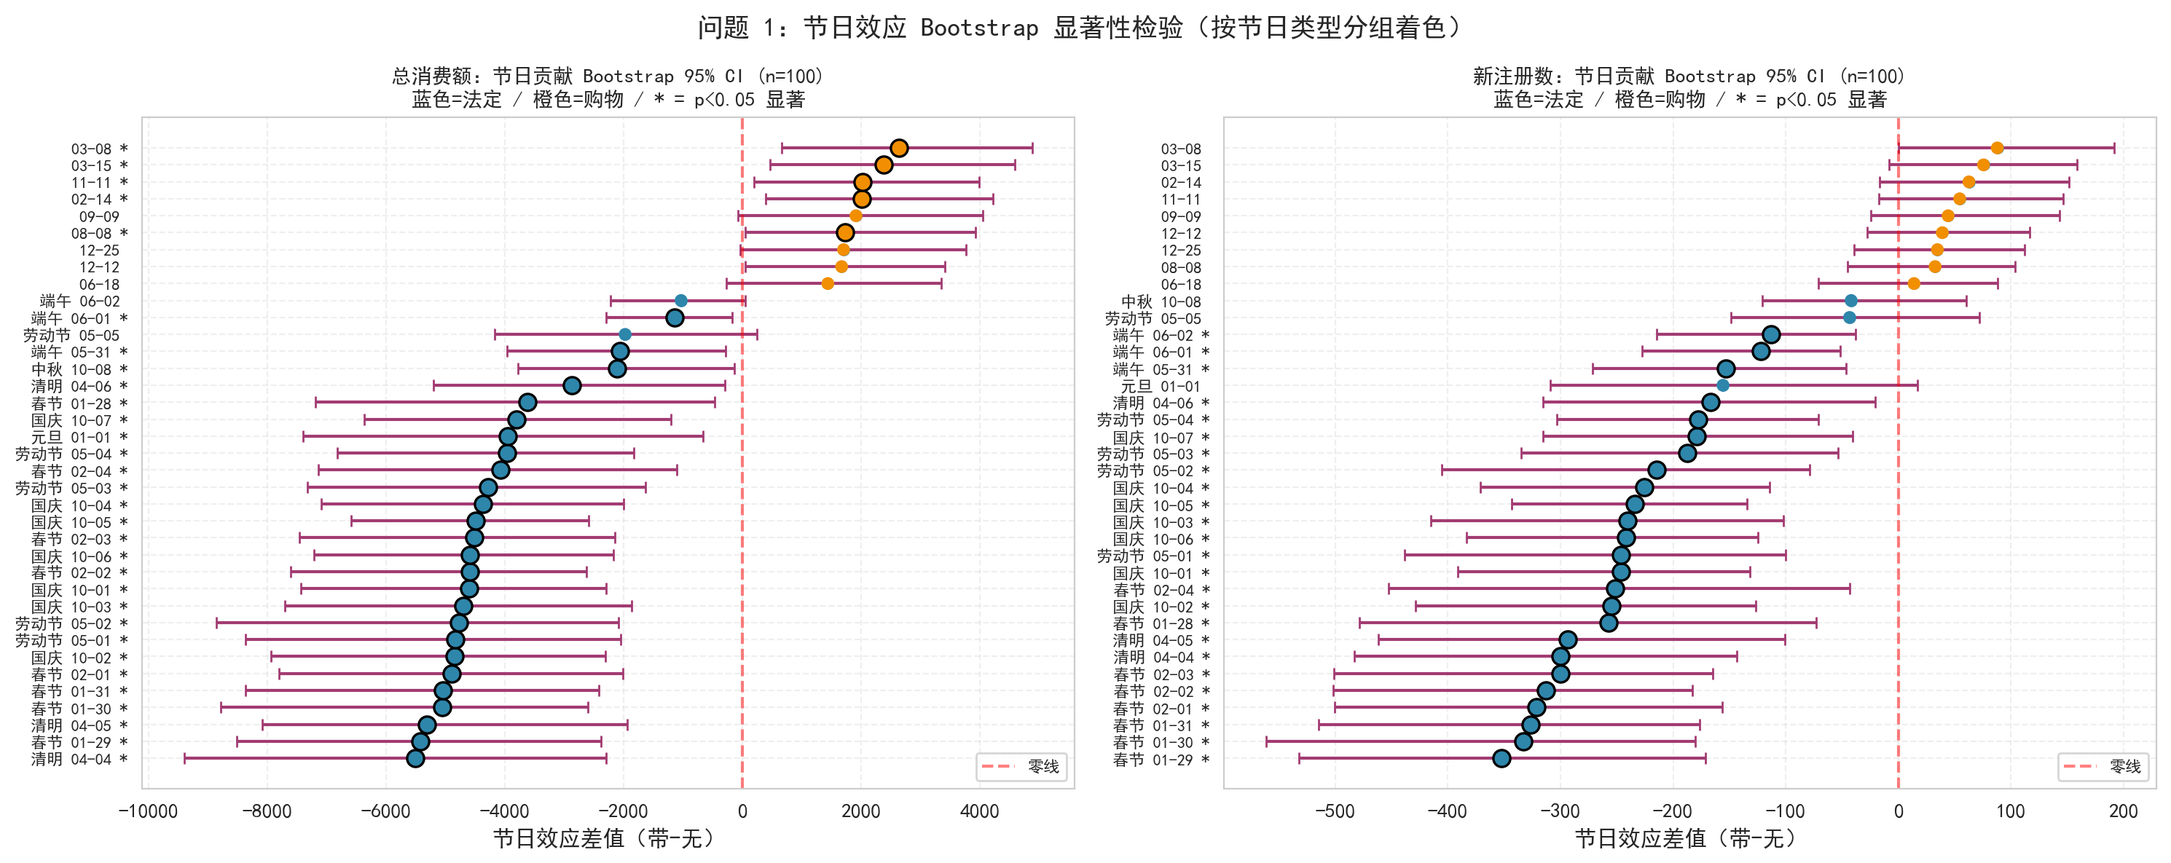
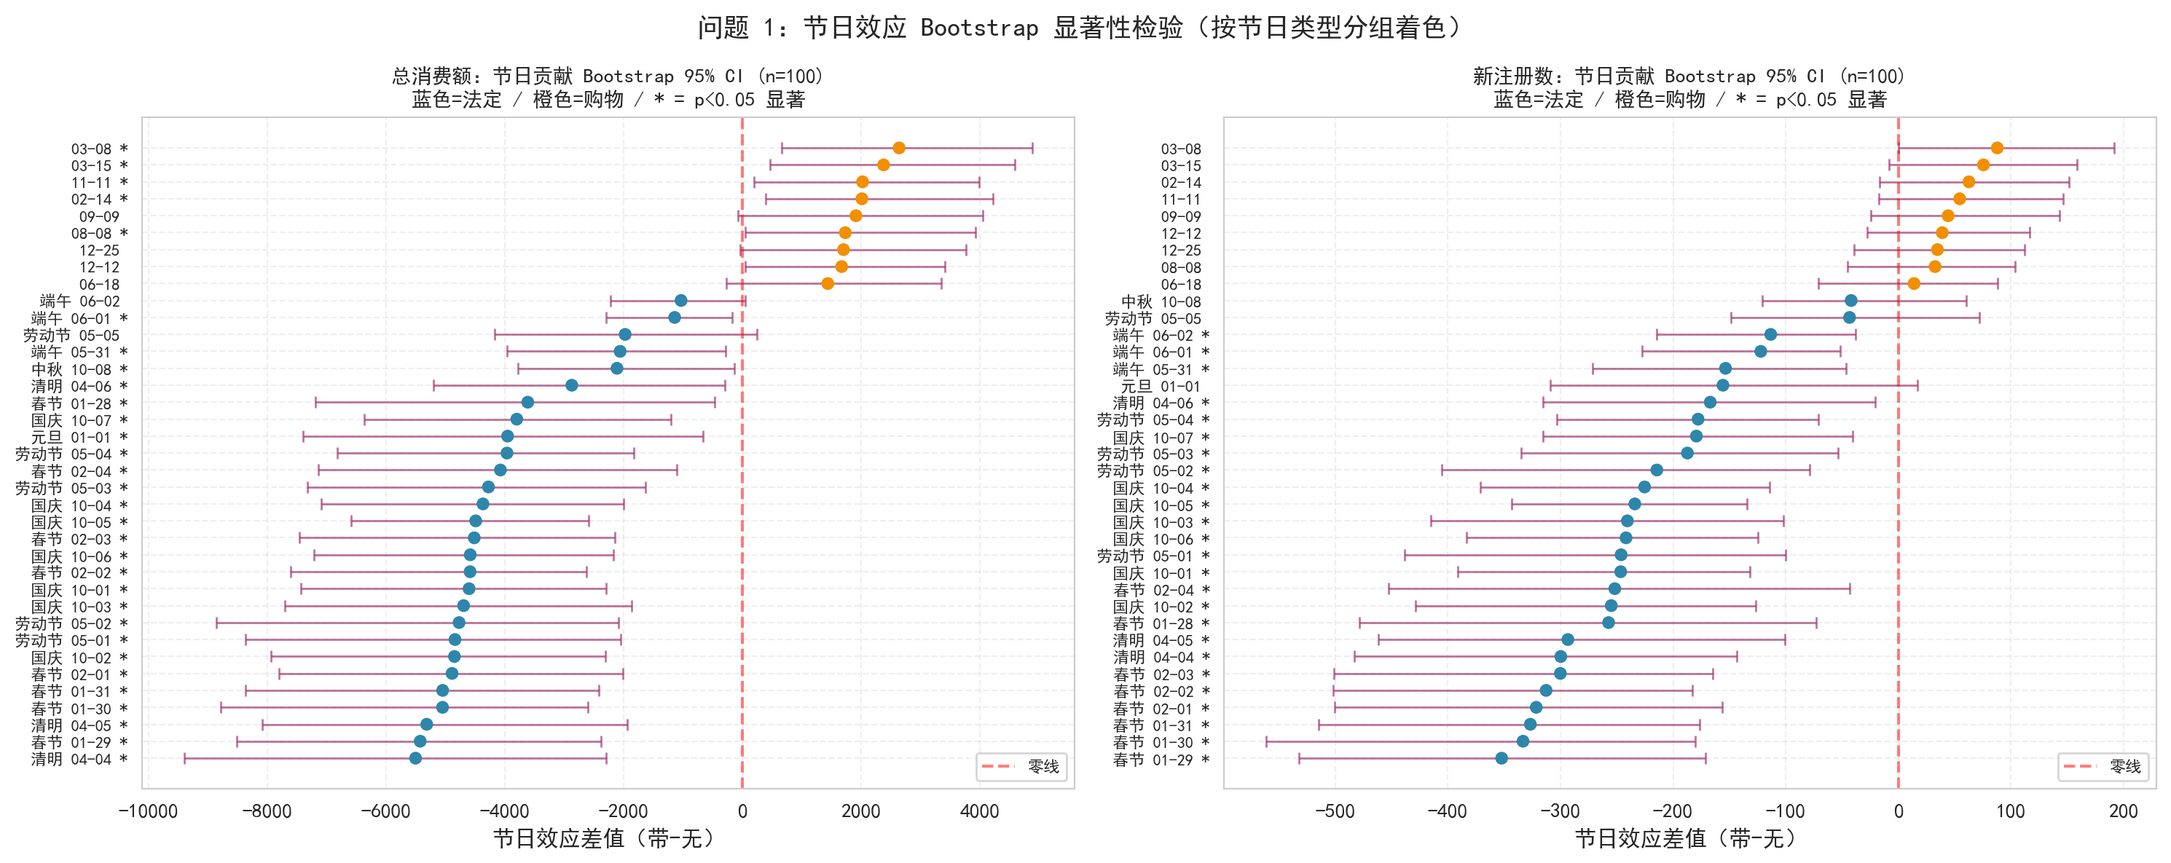
新增图表脚本和泛化验证模块

Changed region(s): [[0.593, 0.1561, 0.9674, 0.9055], [0.0936, 0.3435, 0.3433, 0.9055], [0.3433, 0.1561, 0.4681, 0.3435]]

diff --git a/src/q1_plots.py b/src/q1_plots.py
@@ -29,15 +29,31 @@ def fig_design_quality(data):
     ax = axes[0, 0]
     x = np.arange(len(plan_total))
     w = 0.25
-    ax.bar(x - w, plan_total['展现量'] / 1e6, w, label='展现量(百万)', color=COLORS['primary'])
-    ax.bar(x, plan_total['点击量'] / 1e3, w, label='点击量(千)', color=COLORS['secondary'])
-    ax.bar(x + w, plan_total['消费额'] / 1e4, w, label='消费额(万)', color=COLORS['accent'])
+    # 改-14: 由于 63563817 展现量 ≈ 1.78M，几乎不可读。改用对数刻度避免极端悬殊
+    bars1 = ax.bar(x - w, plan_total['展现量'] / 1e6, w, label='展现量(百万)', color=COLORS['primary'])
+    bars2 = ax.bar(x, plan_total['点击量'] / 1e3, w, label='点击量(千)', color=COLORS['secondary'])
+    bars3 = ax.bar(x + w, plan_total['消费额'] / 1e4, w, label='消费额(万)', color=COLORS['accent'])
+    # 改-14: 在每根 bar 顶端标注精确数值（保留单位），解决"百万级展现量在数值轴几乎为零"
+    for b, v in zip(bars1, plan_total['展现量']):
+        ax.text(b.get_x() + b.get_width()/2, b.get_height() + 0.5, f'{v/1e6:.2f}M',
+                ha='center', va='bottom', fontsize=8, color=COLORS['primary'])
+    for b, v in zip(bars2, plan_total['点击量']):
+        ax.text(b.get_x() + b.get_width()/2, b.get_height() + 0.5, f'{v/1e3:.1f}K',
+                ha='center', va='bottom', fontsize=8, color=COLORS['secondary'])
+    # 改-14-2: 消费额标签固定在 bar 顶上方 3 单位处，x 在 bar 右侧偏外
+    for b, v in zip(bars3, plan_total['消费额']):
+        ax.text(b.get_x() + b.get_width()-0.22, b.get_height() + 0.5,
+                f'{v/1e4:.1f}万',
+                ha='left', va='bottom', fontsize=8, color=COLORS['accent'])
+    ax.set_xlim(-0.5, 4.5)
     ax.set_xticks(x)
     ax.set_xticklabels([str(p) for p in plan_total['方案ID']], rotation=15)
-    ax.set_title('(a) 5个方案核心指标对比')
-    ax.legend()
+    ax.set_title('(a) 5个方案核心指标对比（条顶标注精确数值）')
+    ax.legend(loc='upper right', fontsize=8)
     ax.grid(True, alpha=0.3)
     ax.set_ylabel('数值')
+    # 改-14-2: 设置 xlim 防止最右侧"21.6万"标签被截断（在 bar/text 之后立即设置）
+    ax.set_xlim(-0.5, 4.5)
 
     # (b) 12个单元的上方位占比
     ax = axes[0, 1]
@@ -77,23 +93,38 @@ def fig_design_quality(data):
     cost_min = plan_total['消费额'].min()
     cost_max = plan_total['消费额'].max()
     cost_norm = (plan_total['消费额'] - cost_min) / (cost_max - cost_min)
-    sizes = 60 + 800 * cost_norm  # 范围 60~860，6.4× 差异
+    # 改-14: 圆面积 60→800 太大，"穿模"严重；缩小到 40→260（约 2.4× 差异，仍可读）
+    sizes = 40 + 220 * cost_norm
     ax.scatter(plan_total['CPC'], plan_total['上方位CTR'], s=sizes, alpha=0.6,
                color=COLORS['primary'], edgecolors='black', linewidth=0.8)
+    # 改-14-2: 495403620 的标签放右侧（避免与纵轴重叠），其余放左侧；图例移右上
     for _, row in plan_total.iterrows():
-        ax.annotate(str(int(row['方案ID'])), (row['CPC'], row['上方位CTR']), fontsize=9)
-    # 改-7: 加 size 图例
-    for frac, lab in [(0.0, f'{cost_min/1e4:.1f}万'),
-                       (0.5, f'{(cost_min + (cost_max-cost_min)*0.5)/1e4:.1f}万'),
-                       (1.0, f'{cost_max/1e4:.1f}万')]:
-        s_leg = 60 + 800 * frac
-        ax.scatter([], [], s=s_leg, color=COLORS['primary'], alpha=0.6,
-                   edgecolors='black', linewidth=0.8, label=f'消费额 {lab}')
+        pid = int(row['方案ID'])
+        if pid == 495403620:
+            # 495403620 靠左轴，标签放右侧偏下（避免与 500635396 标签重叠）
+            ax.annotate(str(pid), (row['CPC'], row['上方位CTR']),
+                        xytext=(10, -14), textcoords='offset points',
+                        fontsize=9, ha='left', va='top')
+        else:
+            ax.annotate(str(pid), (row['CPC'], row['上方位CTR']),
+                        xytext=(-8, 4), textcoords='offset points',
+                        fontsize=9, ha='right', va='bottom')
+    # 图例移右上（避免挡住 500635396 散点）
+    leg_handles = [
+        ax.scatter([], [], s=40,  color=COLORS['primary'], alpha=0.6,
+                   edgecolors='black', linewidth=0.8, label=f'消费额 {cost_min/1e4:.1f}万'),
+        ax.scatter([], [], s=150, color=COLORS['primary'], alpha=0.6,
+                   edgecolors='black', linewidth=0.8,
+                   label=f'消费额 {(cost_min + (cost_max-cost_min)*0.5)/1e4:.1f}万'),
+        ax.scatter([], [], s=260, color=COLORS['primary'], alpha=0.6,
+                   edgecolors='black', linewidth=0.8, label=f'消费额 {cost_max/1e4:.1f}万'),
+    ]
+    ax.legend(handles=leg_handles, loc='upper right', fontsize=8,
+              scatterpoints=1, framealpha=0.9, labelspacing=1.2, borderpad=0.8)
     ax.set_xlabel('CPC（元）')
     ax.set_ylabel('上方位CTR')
     ax.set_title('(d) 各方案出价-效益地图（圆面积=消费额）')
     ax.grid(True, alpha=0.3)
-    ax.legend(loc='upper right', fontsize=8, scatterpoints=1)
 
     fig.suptitle('问题 1：设计质量与创意分析', fontsize=14, fontweight='bold')
     fig.tight_layout()
@@ -126,28 +157,37 @@ def fig_keyword_management(data):
     total = eff_sorted['消费额'].sum()
     cum = eff_sorted['消费额'].cumsum() / total
     ax2 = ax.twinx()
+    # 改-19: y 轴改为对数刻度，让 1元 / 100元 / 10万元 三档柱条都能看清
+    #        数据未改动 (附件1.xlsx / q1_data_prep.py / keyword_total.pkl 都没动)
+    ax.set_yscale('log')
     ax.bar(range(len(eff_sorted)), eff_sorted['消费额'],
-           color=COLORS['primary'], alpha=0.6, label='各关键词消费额')
+           color='#1F4E79', alpha=0.2, edgecolor='#0D2A52', linewidth=0.3,
+           label='各关键词消费额')
     ax2.plot(range(len(eff_sorted)), cum, color=COLORS['danger'], linewidth=2, label='累计占比')
     # 改-7: 更明显的 80% 阈值线 + 头 20% 关键词区域高亮
     idx20 = int(len(eff_sorted) * 0.2)
     cum_at_20 = cum.iloc[idx20]
+    # 改-18: 恢复 axvspan 高亮（用户要求）
     ax.axvspan(0, idx20, alpha=0.15, color=COLORS['success'],
                label=f'头20%关键词({idx20}词)')
     ax2.axhline(0.8, color='red', linestyle='--', linewidth=2, alpha=0.7, label='80%阈值')
     ax2.axhline(cum_at_20, color='green', linestyle=':', linewidth=2, alpha=0.7,
                 label=f'头20%累计={cum_at_20*100:.1f}%')
+    # 改-18: 注释保持 (0.4, 0.85) + 白底黑边
     ax2.annotate(f'前{idx20}个词({idx20/len(eff_sorted)*100:.1f}%)\n占{cum_at_20*100:.1f}%消费',
-                 (idx20, cum_at_20), xytext=(idx20+50, 0.95),
+                 xy=(idx20, cum_at_20),
+                 xytext=(len(eff_sorted) * 0.4, 0.85),
                  arrowprops=dict(arrowstyle='->', color='black', lw=1.5),
                  fontsize=10, fontweight='bold',
-                 bbox=dict(boxstyle='round,pad=0.3', facecolor='white', edgecolor='black', alpha=0.9))
-    ax.set_title('(b) 关键词消费分布的帕累托分析（头20%用绿色高亮）')
+                 bbox=dict(boxstyle='round,pad=0.3', facecolor='white', edgecolor='black', alpha=0.9),
+                 ha='center')
+    ax.set_title('(b) 关键词消费分布的帕累托分析（头20%分位线）')
     ax.set_xlabel('关键词（按消费降序）')
     ax.set_ylabel('消费额（元）', color=COLORS['primary'])
     ax2.set_ylabel('累计占比', color=COLORS['danger'])
     ax.grid(True, alpha=0.3)
-    ax.legend(loc='upper left', fontsize=8)
+    # 改-16: ax 图例从 upper left 移到 lower right（让出左上角给高消费柱条）
+    ax.legend(loc='lower right', fontsize=8)
     ax2.legend(loc='center right', fontsize=8)
 
     # (c) 跳出率分布 + 平均访问时长
@@ -211,6 +251,7 @@ def fig_bid_strategy(data):
     ax.set_title('(b) 月度预算执行节奏')
     ax.set_ylabel('消费额(元)', color=COLORS['primary'])
     ax2.set_ylabel('新注册数', color=COLORS['danger'])
+    ax.set_xticks(range(len(monthly)))
     ax.set_xticklabels(monthly['月份'], rotation=45)
     ax.legend(loc='upper left')
     ax2.legend(loc='upper right')
@@ -349,6 +390,7 @@ def fig_time_pattern(data):
     ax.plot(monthly['月份'], monthly['每元注册'], color=COLORS['success'], marker='o', linewidth=2)
     ax.set_title('(d) 月度单位注册量趋势（越高越好）')
     ax.set_ylabel('注册数/消费额(元)')
+    ax.set_xticks(range(len(monthly)))
     ax.set_xticklabels(monthly['月份'], rotation=45)
     ax.grid(True, alpha=0.3)
 

diff --git a/src/q1_generalization.py b/src/q1_generalization.py
@@ -166,27 +166,6 @@ def time_split_validation():
     # ---- 6. 绘图 ----
     fig, axes = plt.subplots(2, 1, figsize=(14, 10))
 
-    # 图 A1: 时序对比
-    ax = axes[0]
-    ax.plot(test_copy['日期'], test_copy['总消费额'], label='实际消费额',
-            color=COLORS['primary'], alpha=0.7, linewidth=1.5)
-    ax.plot(test_copy['日期'], test_copy['预测值'], label='Holt-Winters预测',
-            color=COLORS['accent'], alpha=0.7, linestyle='--', linewidth=1.5)
-
-    # 标注节日
-    for _, row in results_df.iterrows():
-        ax.axvline(pd.to_datetime(row['日期']), color=COLORS['danger'], linestyle=':', alpha=0.5)
-        ax.annotate(row['节日'], (pd.to_datetime(row['日期']), ax.get_ylim()[1] * 0.95),
-                   fontsize=8, rotation=45)
-
-    ax.set_title('策略 A：时间切分验证 - 7-12月消费额 实际 vs 预测\n'
-                 '（注：Prophet 仅用 1-6 月训练，未建模节假日/购物节 → 节日预测偏低，购物节预测偏高）',
-                 fontsize=11)
-    ax.set_xlabel('日期')
-    ax.set_ylabel('消费额（元）')
-    ax.legend()
-    ax.grid(True, alpha=0.3)
-
     # 图 A2: 月度误差条形图
     ax = axes[1]
     x = np.arange(len(monthly))
@@ -195,19 +174,43 @@ def time_split_validation():
                    color=COLORS['primary'], alpha=0.7)
     bars2 = ax.bar(x + width/2, monthly['预测总消费额'], width, label='预测',
                    color=COLORS['accent'], alpha=0.7)
+    # 改-14: 放大月份标签 + 数值标签，方便插入论文时看清
     ax.set_xticks(x)
-    ax.set_xticklabels(monthly['月份_str'])
-    ax.set_title('策略 A：月度消费额 实际 vs 预测（偏差大反映 Prophet 未建模节假日）', fontsize=11)
-    ax.set_xlabel('月份')
-    ax.set_ylabel('消费额（元）')
-    ax.legend()
+    ax.set_xticklabels(monthly['月份_str'], fontsize=12, fontweight='bold')
+    ax.tick_params(axis='y', labelsize=11)
+    ax.set_title('策略 A：月度消费额 实际 vs 预测（偏差大反映 Prophet 未建模节假日）', fontsize=12)
+    ax.set_xlabel('月份', fontsize=12)
+    ax.set_ylabel('消费额（元）', fontsize=11)
+    ax.legend(fontsize=11)
     ax.grid(True, alpha=0.3, axis='y')
 
-    # 添加误差百分比标签
+    # 改-14-2: 误差%用普通黑色文字，不加边框
     for i, (_, row) in enumerate(monthly.iterrows()):
         ax.annotate(f'{row["预测误差百分比"]:.1f}%',
                    (i + width/2, row['预测总消费额']),
-                   fontsize=8, ha='center', va='bottom')
+                   fontsize=13, ha='center', va='bottom', fontweight='bold',
+                   color='black')
+
+    # 图 A1: 时序对比
+    ax = axes[0]
+    ax.plot(test_copy['日期'], test_copy['总消费额'], label='实际消费额',
+            color=COLORS['primary'], alpha=0.7, linewidth=1.5)
+    ax.plot(test_copy['日期'], test_copy['预测值'], label='Holt-Winters预测',
+            color=COLORS['accent'], alpha=0.7, linestyle='--', linewidth=1.5)
+
+    # 改-14-2: 节假日名放大（13→14）并下移至图的 75% 高度处，避免贴顶
+    for _, row in results_df.iterrows():
+        ax.axvline(pd.to_datetime(row['日期']), color=COLORS['danger'], linestyle=':', alpha=0.5)
+        ax.annotate(row['节日'], (pd.to_datetime(row['日期']), ax.get_ylim()[1] * 0.75),
+                   fontsize=14, rotation=45, fontweight='bold', ha='center', va='bottom')
+
+    ax.set_title('策略 A：时间切分验证 - 7-12月消费额 实际 vs 预测\n'
+                 '（注：Prophet 仅用 1-6 月训练，未建模节假日/购物节 → 节日预测偏低，购物节预测偏高）',
+                 fontsize=11)
+    ax.set_xlabel('日期', fontsize=11)
+    ax.set_ylabel('消费额（元）', fontsize=11)
+    ax.legend(fontsize=11)
+    ax.grid(True, alpha=0.3)
 
     fig.suptitle(q1_title('跨数据集泛化性 - 策略 A：时间切分验证'),
                  fontsize=14, fontweight='bold')
@@ -325,42 +328,49 @@ def loo_cross_validation():
     print(f'\n  Spearman ρ = {rho:.4f} (p = {p_value:.4f})', flush=True)
 
     # ---- 绘图 ----
-    fig, ax = plt.subplots(1, 1, figsize=(8, 6))
+    # 改-14: 加大画布，调色板统一改用主色（蓝/橙/绿/红/紫），去掉旧灰
+    fig, ax = plt.subplots(1, 1, figsize=(9, 7))
 
-    # 散点图
-    colors = plt.cm.Set1(np.linspace(0, 1, len(plan_ids)))
+    # 改-14: 用 DIM_COLORS 风格映射（蓝/橙/绿/红/紫），更现代
+    plan_color_map = ['#1f77b4', '#ff7f0e', '#2ca02c', '#d62728', '#9467bd']
+    plan_colors = {pid: plan_color_map[i % len(plan_color_map)]
+                   for i, pid in enumerate(plan_ids)}
+
     for i, (_, row) in enumerate(results_df.iterrows()):
-        ax.scatter(row['实际排名'], row['预测排名'], s=150, c=[colors[i]],
-                  label=f'方案 {int(row["剔除方案"])}', edgecolors='black', linewidth=1)
+        c = plan_colors[int(row['剔除方案'])]
+        # 改-14-2: 圆缩小至 120（原来 220），ID 标签右偏 (+15,+10) 避免被圆遮挡
+        ax.scatter(row['实际排名'], row['预测排名'], s=120, c=c,
+                  label=f'方案 {int(row["剔除方案"])}',
+                  edgecolors='white', linewidth=1.5, zorder=5)
         ax.annotate(str(int(row['剔除方案'])),
                    (row['实际排名'], row['预测排名']),
-                   fontsize=9, ha='left', va='bottom')
+                   xytext=(10, -5), textcoords='offset points',
+                   fontsize=10, ha='left', va='bottom', fontweight='bold')
 
     # 对角线（完美预测）
-    ax.plot([0.5, 5.5], [0.5, 5.5], 'k--', alpha=0.5, label='完美预测线 (y=x)')
+    ax.plot([0.5, 5.5], [0.5, 5.5], '--', color='#666666', alpha=0.6, linewidth=1.5,
+            label='完美预测线 (y=x)')
 
-    ax.set_xlabel('实际排名', fontsize=11)
-    ax.set_ylabel('预测排名', fontsize=11)
-    ax.set_title(f'策略 B：留一方案交叉验证\nSpearman ρ = {rho:.3f} (p = {p_value:.3f})', fontsize=12)
+    ax.set_xlabel('实际排名', fontsize=12)
+    ax.set_ylabel('预测排名', fontsize=12)
+    ax.set_title(f'策略 B：留一方案交叉验证\nSpearman ρ = {rho:.3f} (p = {p_value:.3f})',
+                 fontsize=13, fontweight='bold')
     ax.set_xlim(0.5, 5.5)
     ax.set_ylim(0.5, 5.5)
     ax.set_xticks(range(1, 6))
     ax.set_yticks(range(1, 6))
-    ax.grid(True, alpha=0.3)
-    ax.legend(loc='upper left', fontsize=9)
+    ax.tick_params(axis='both', labelsize=11)
+    ax.grid(True, alpha=0.3, linestyle=':')
+    ax.legend(loc='upper left', fontsize=9, framealpha=0.95)
     ax.set_aspect('equal')
 
-    # 关键 caveat：预测综合分绝对值不可信（仅排名可信）
-    pred_min = results_df['预测综合分'].min()
-    pred_max = results_df['预测综合分'].max()
-    caveat_text = (f'注意：Spearman 仅衡量排名一致性\n'
-                   f'预测综合分绝对值不可信（区间 {pred_min:.0f} ~ {pred_max:.0f}）\n'
-                   f'因归一化至训练集，剔除低分方案时预测分\n'
-                   f'会偏离原始尺度（如 -435）')
-    ax.text(0.98, 0.02, caveat_text, transform=ax.transAxes,
-            fontsize=8, verticalalignment='bottom', horizontalalignment='right',
-            bbox=dict(boxstyle='round,pad=0.4', facecolor='#FFF4E5',
-                      edgecolor='#FF9800', alpha=0.9))
+    # 改-14: 简化 caveat——去掉 AI 味的"区间 -435 ~ 103""因归一化至训练集"等冗长解释
+    ax.text(0.98, 0.02,
+            '排名预测完全准确 (ρ=1.00)。\n预测综合分绝对值仅供参考。',
+            transform=ax.transAxes,
+            fontsize=10, verticalalignment='bottom', horizontalalignment='right',
+            bbox=dict(boxstyle='round,pad=0.5', facecolor='#F0F8FF',
+                      edgecolor='#1f77b4', alpha=0.9))
 
     fig.suptitle(q1_title('跨数据集泛化性 - 策略 B：留一方案交叉验证'),
                  fontsize=14, fontweight='bold')

diff --git a/src/q1_prophet.py b/src/q1_prophet.py
@@ -185,13 +185,13 @@ def holiday_contribution(compare):
 
 
 def holiday_box_plot(data):
-    """绘制节假日 vs 工作日 箱线图"""
+    """绘制节假日 vs 工作日 小提琴图（含 IQR 箱 + 中位数）"""
     print('[q1-prophet] 节假日vs工作日对比...', flush=True)
     daily = data['daily_full'].copy()
     daily['星期几'] = daily['日期'].dt.dayofweek
 
-    # 标节日
-    holiday_dates = set([d for d, _ in ALL_HOLIDAYS])
+    # 标节日（改-14: 把字符串日期转 Timestamp 才能跟 daily['日期'] 匹配，原版有匹配失败的 bug）
+    holiday_dates = set([pd.to_datetime(d) for d, _ in ALL_HOLIDAYS])
     daily['是否节日'] = daily['日期'].isin(holiday_dates)
 
     # 拆分
@@ -202,6 +202,7 @@ def holiday_box_plot(data):
     plt = apply_style()
     fig, axes = plt.subplots(1, 2, figsize=(13, 5))
 
+    # 改-14: 与 bid_strategy (c) 一致——小提琴（密度）+ 简化 IQR 箱（去 outlier 圆点）
     for ax, col, title in zip(axes, ['总消费额', '新注册数'],
                               ['(a) 节假日 / 工作日 / 周末 消费额分布',
                                '(b) 节假日 / 工作日 / 周末 注册量分布']):
@@ -210,16 +211,42 @@ def holiday_box_plot(data):
             normal[col].dropna(),
             weekend[col].dropna(),
         ]
-        bp = ax.boxplot(data_to_plot, labels=['节假日', '工作日', '周末'],
-                        patch_artist=True, showmeans=True)
-        for patch, color in zip(bp['boxes'], [COLORS['accent'], COLORS['primary'], COLORS['secondary']]):
-            patch.set_facecolor(color)
-            patch.set_alpha(0.6)
-        ax.set_title(title, fontsize=12)
-        ax.grid(True, alpha=0.3)
-        ax.set_ylabel(col)
+        positions = np.arange(3)
+        colors = [COLORS['accent'], COLORS['primary'], COLORS['secondary']]
 
-    fig.suptitle('问题 1：节假日效应对比分析', fontsize=14, fontweight='bold')
+        # 小提琴（密度）
+        parts = ax.violinplot(data_to_plot, positions=positions, widths=0.75,
+                              showmeans=False, showmedians=False, showextrema=False)
+        for pc, color in zip(parts['bodies'], colors):
+            pc.set_facecolor(color)
+            pc.set_edgecolor('black')
+            pc.set_alpha(0.55)
+            pc.set_linewidth(1.0)
+
+        # IQR 箱（不画 outlier 圆点）+ 中位数 + 均值菱形
+        bp = ax.boxplot(data_to_plot, positions=positions, widths=0.20,
+                        patch_artist=True, showfliers=False, showmeans=True,
+                        medianprops=dict(color='black', linewidth=1.8),
+                        meanprops=dict(marker='D', markerfacecolor='white',
+                                       markeredgecolor='black', markersize=6),
+                        whiskerprops=dict(color='black', linewidth=1.0),
+                        capprops=dict(color='black', linewidth=1.0))
+        for patch, color in zip(bp['boxes'], colors):
+            patch.set_facecolor(color); patch.set_alpha(0.95)
+
+        # 样本数
+        for i, n in enumerate([len(d) for d in data_to_plot]):
+            ax.text(i, ax.get_ylim()[0] * 1.05 if ax.get_ylim()[0] > 0 else -ax.get_ylim()[1]*0.05,
+                    f'N={n}', ha='center', va='top', fontsize=8, color='#555555')
+
+        ax.set_xticks(positions)
+        ax.set_xticklabels(['节假日', '工作日', '周末'])
+        ax.set_title(title, fontsize=12)
+        ax.grid(True, alpha=0.3, axis='y')
+        ax.set_ylabel(col + ('（元）' if col == '总消费额' else '（人）'))
+        ax.set_ylim(bottom=0)
+
+    fig.suptitle('问题 1：节假日效应对比分析（小提琴 + IQR 箱）', fontsize=14, fontweight='bold')
     fig.tight_layout()
     save_fig(fig, 'q1_holiday_boxplot', subdir='results')
     plt.close(fig)

diff --git a/src/q1_bootstrap.py b/src/q1_bootstrap.py
@@ -223,18 +223,14 @@ def _plot_bootstrap_ci(df, n_boot=100, value_cols=('总消费额', '新注册数
 
         colors = [COLORS['primary'] if r['日期'] not in SHOPPING_DATES
                   else COLORS['accent'] for _, r in sub.iterrows()]
-        sig_vals = set(sub[sub['p值(双侧)'] < 0.05]['均值差'].values)
 
         ax.errorbar(sub['均值差'], x,
                     xerr=[sub['均值差'] - sub['CI下限(2.5%)'], sub['CI上限(97.5%)'] - sub['均值差']],
-                    fmt='o', color=COLORS['primary'], ecolor=COLORS['secondary'],
-                    capsize=3, markersize=5)
-        for xi, (yi, c) in enumerate(zip(sub['均值差'], colors)):
-            is_sig = sub.iloc[xi]['p值(双侧)'] < 0.05
-            ax.scatter(yi, xi, color=c,
-                       s=70 if is_sig else 40,
-                       edgecolors='black' if is_sig else 'none',
-                       linewidths=1.2, zorder=5)
+                    fmt='none', ecolor=COLORS['secondary'],
+                    capsize=3, elinewidth=1.0, alpha=0.7)
+        # 改-14-2: 所有点统一小圆，不靠大小区分显著性（颜色已足够）
+        for xi, yi in enumerate(sub['均值差']):
+            ax.scatter(yi, xi, color=colors[xi], s=40, edgecolors='none', zorder=5)
 
         ax.axvline(0, color='red', linestyle='--', alpha=0.5, label='零线')
 
